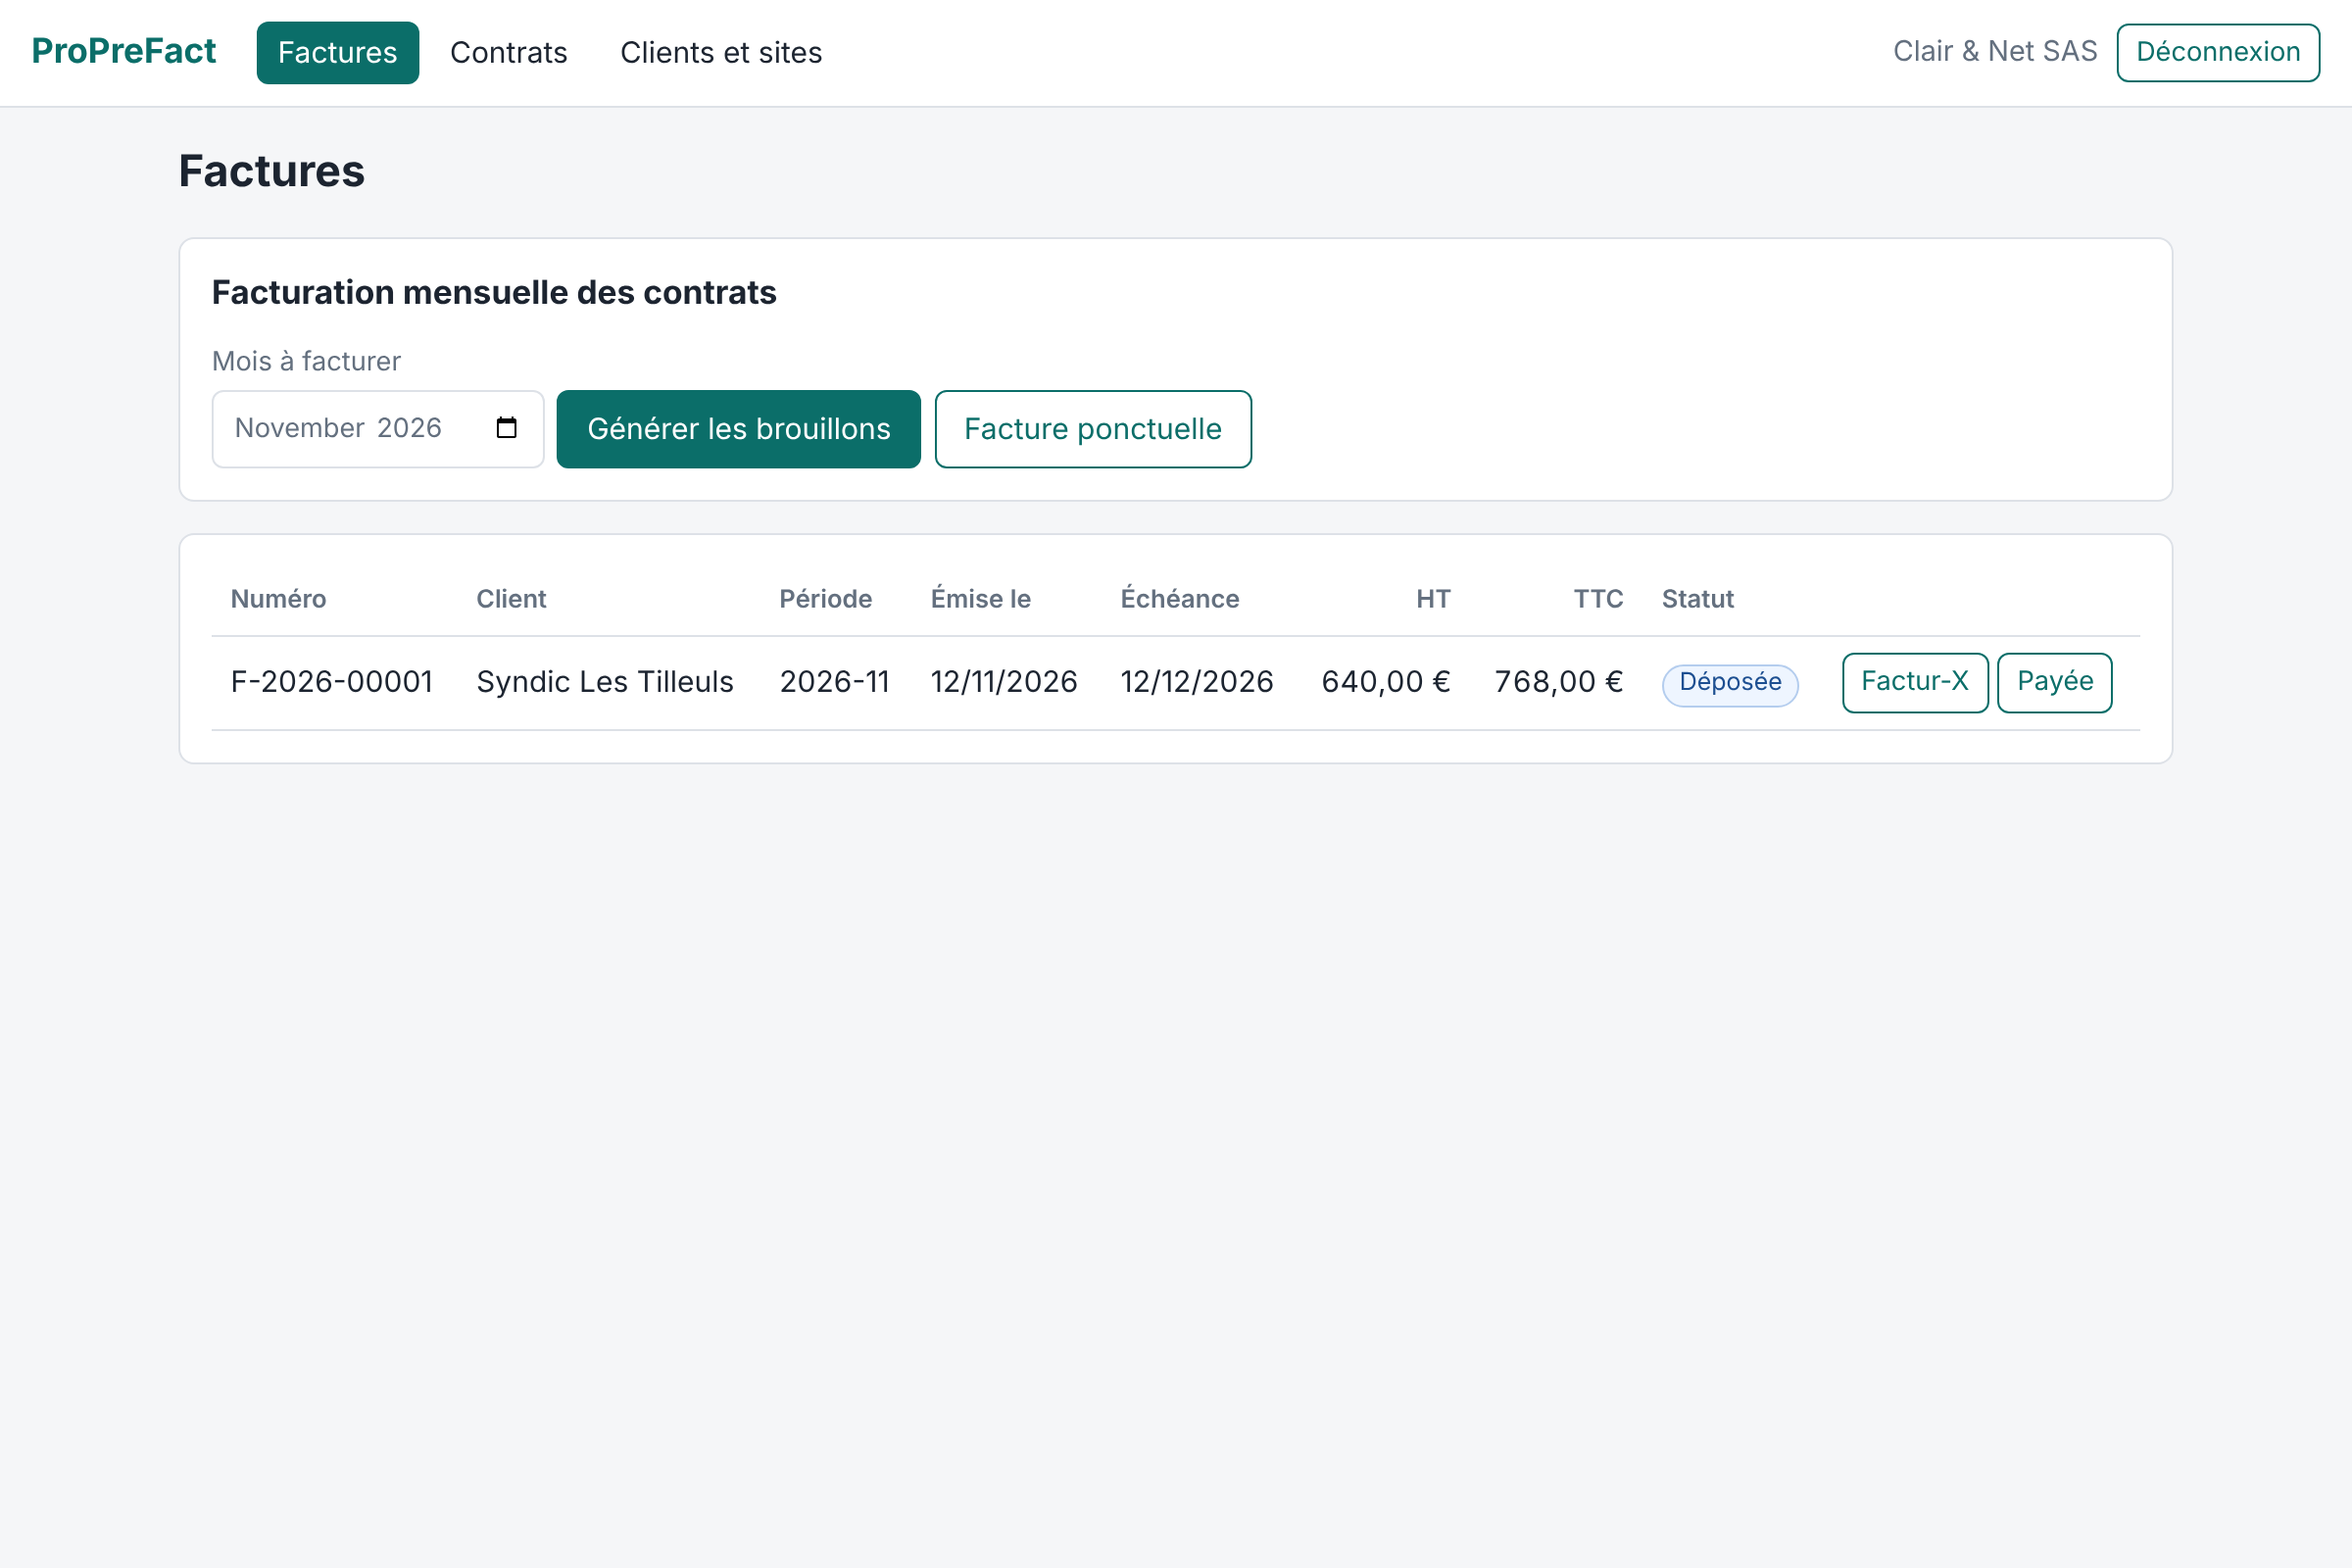
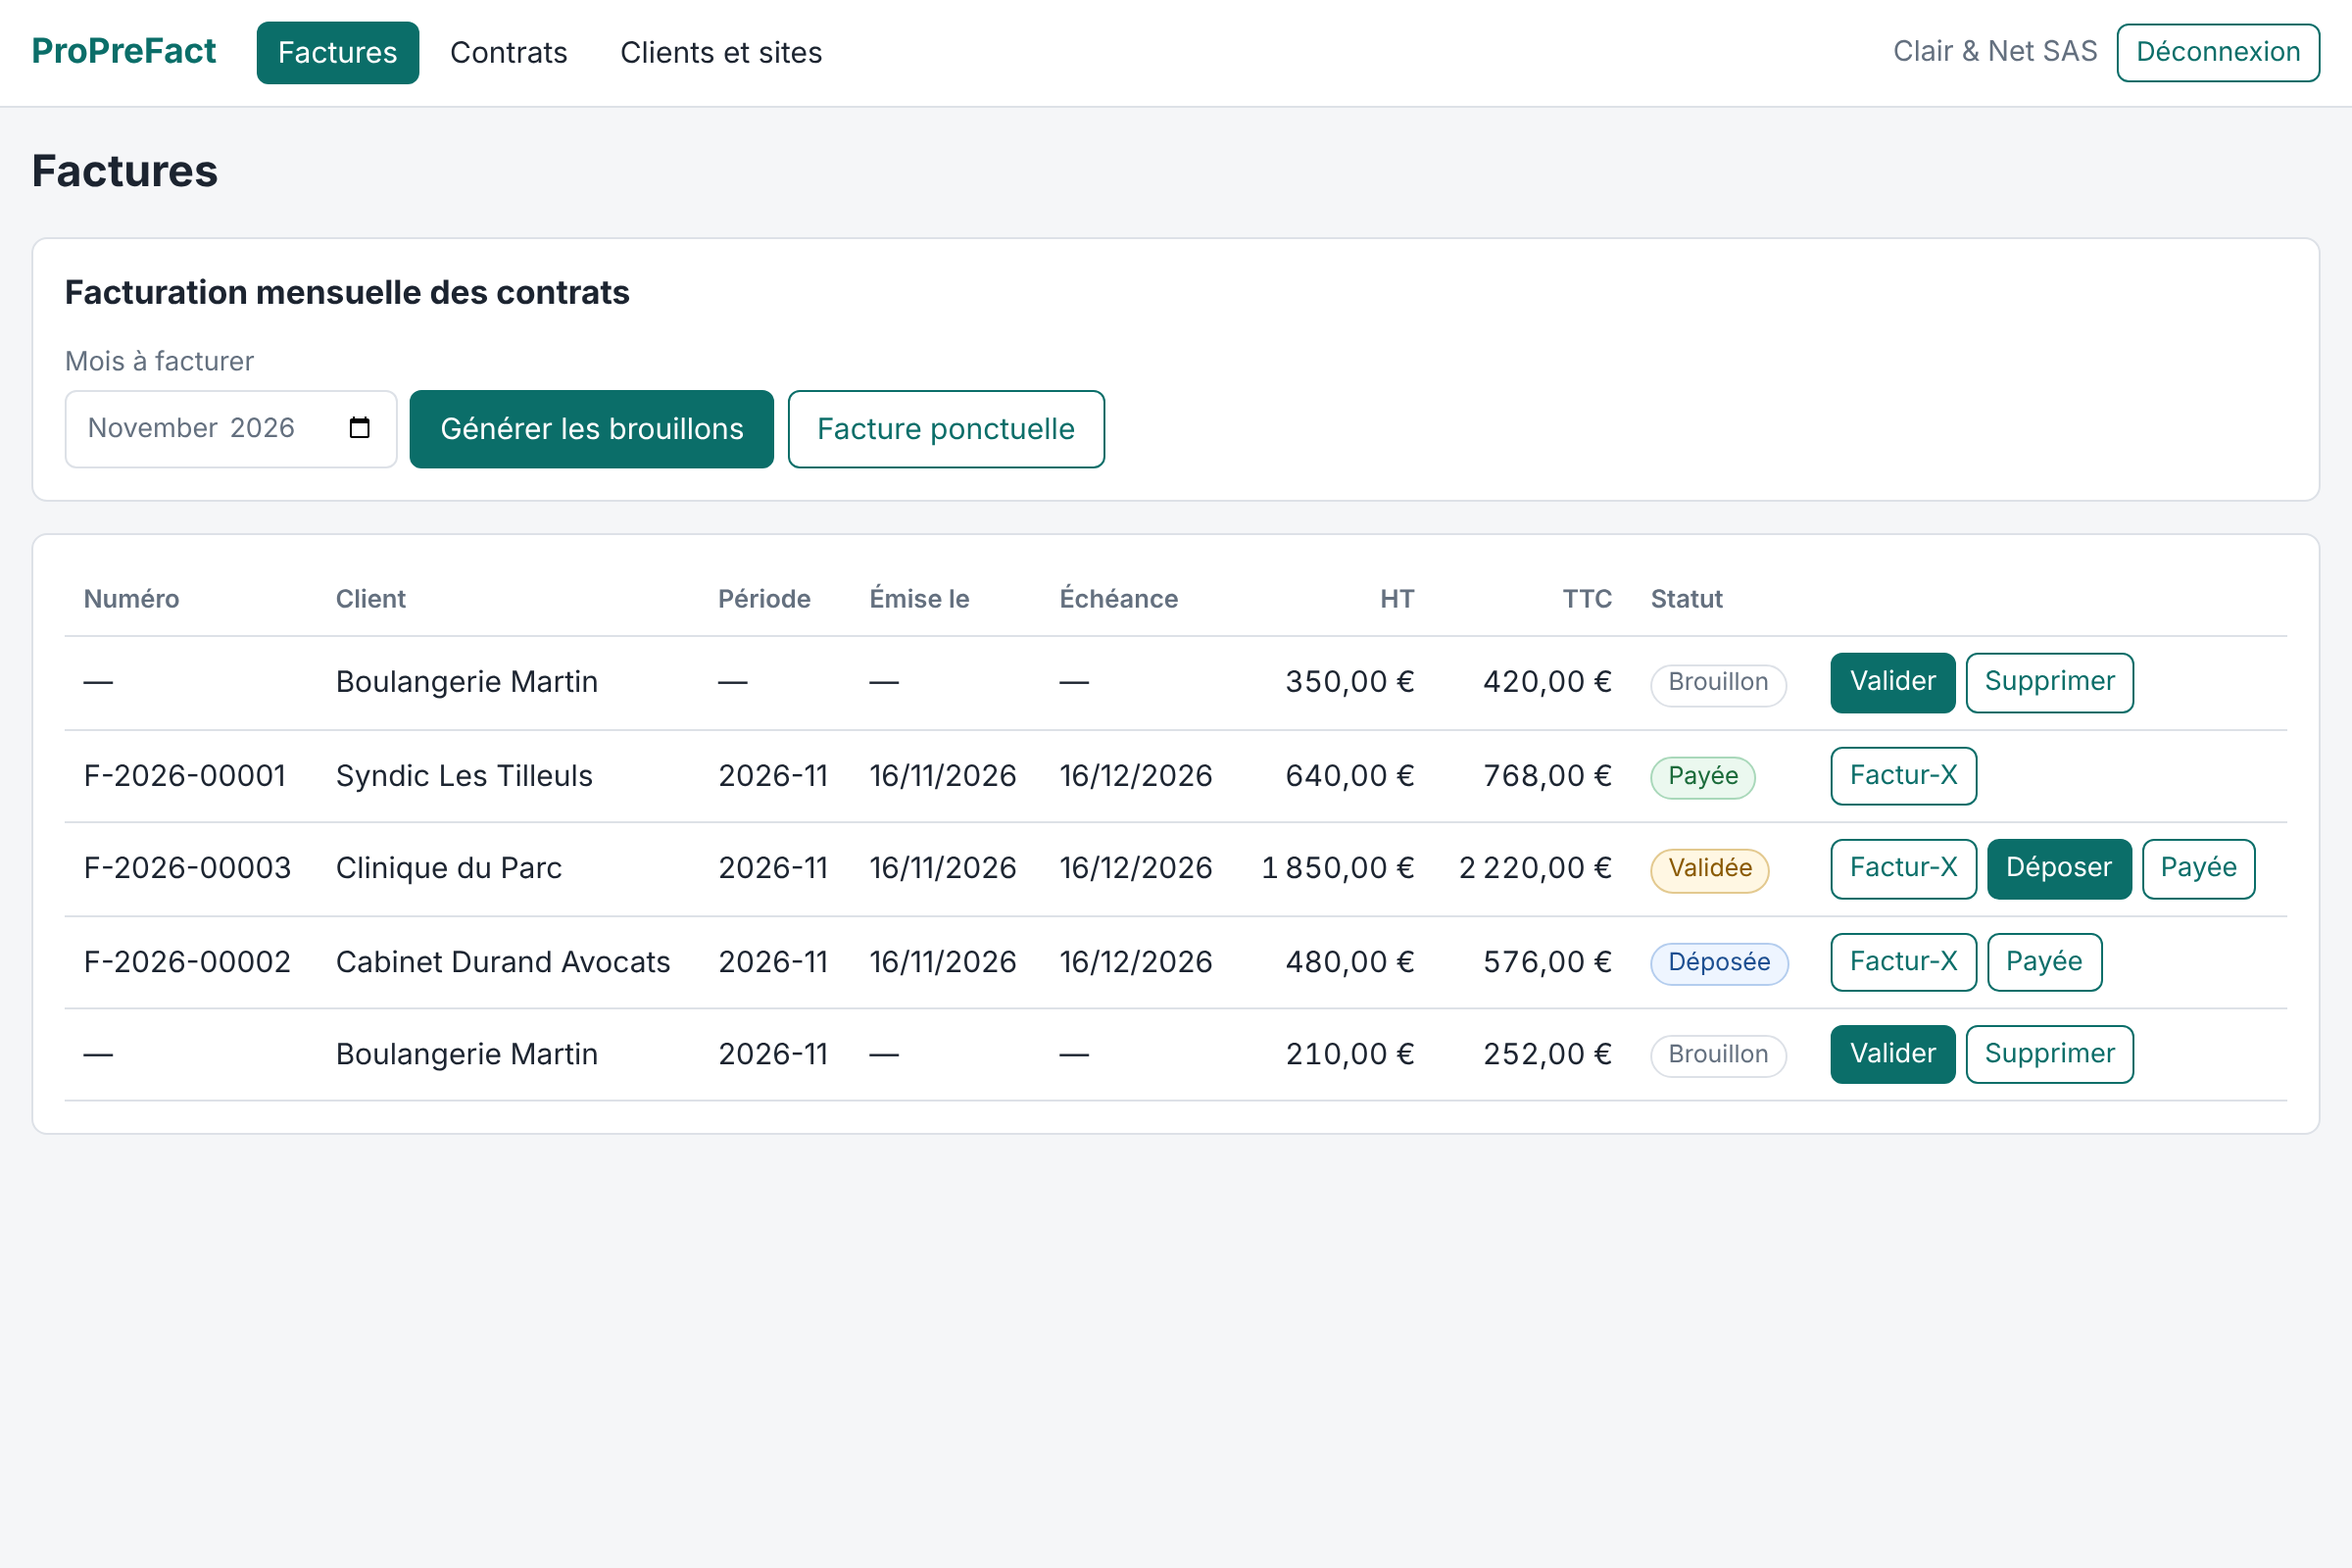
Refait la capture d'écran et garde visibles les boutons des factures
Sur un écran de 1200 points, les boutons d'action de la liste des factures
débordaient et n'étaient visibles qu'en faisant défiler le tableau. Ils
passent désormais à la ligne dans leur cellule. La capture du README montre
l'écran actuel avec une facture dans chaque statut.

Claude-Session: https://claude.ai/code/session_01BkiG84bwC7zDypddUp5ij7

diff --git a/frontend/src/app/pages/factures.html b/frontend/src/app/pages/factures.html
@@ -100,7 +100,7 @@
                 <div class="erreur petite">Dernier essai : {{ facture.depotErreur }}</div>
               }
             </td>
-            <td>
+            <td class="actions-ligne">
               <span class="groupe-boutons">
                 @if (facture.statut !== 'BROUILLON') {
                   <button

diff --git a/frontend/src/styles.css b/frontend/src/styles.css
@@ -193,7 +193,13 @@ a {
 }
 .groupe-boutons {
   display: flex;
+  flex-wrap: wrap;
   gap: 0.3rem;
+}
+/* Cellule des boutons d'une ligne : ils passent à la ligne plutôt que de faire défiler le tableau. */
+td.actions-ligne {
+  white-space: normal;
+  min-width: 9rem;
 }
 .erreur.petite {
   font-size: 0.78rem;

diff --git a/frontend/src/app/app.css b/frontend/src/app/app.css
@@ -37,7 +37,7 @@ nav a.actif {
   font-size: 0.9rem;
 }
 main {
-  max-width: 1050px;
+  max-width: 1200px;
   margin: 0 auto;
   padding: 1rem;
 }

diff --git a/AVANCEMENT.md b/AVANCEMENT.md
@@ -36,6 +36,7 @@ Ce fichier dit où en est l'application de `DIRECTIVES_CORRECTIONS.md`. Il est m
 | 17 | Hors directives : période typée `YearMonth` | Fait | voir journal |
 | 18 | Hors directives : conditions du vendeur regroupées | Fait | voir journal |
 | 19 | Hors directives : test d'intégration découpé par sujet | Fait | voir journal |
+| 20 | Hors directives : capture d'écran refaite, boutons d'action visibles | Fait | voir journal |
 
 États possibles : `À faire`, `En cours` (avec l'étape atteinte), `Fait`, `Bloqué : raison`.
 
@@ -57,10 +58,9 @@ Si tu obtiens moins bien **avant** de commencer un lot, ne commence pas : cherch
 
 ## Ce qui reste à faire
 
-Les 19 lots sont terminés. Ce qui suit n'a **pas** été fait ; chaque point
+Les 20 lots sont terminés. Ce qui suit n'a **pas** été fait ; chaque point
 est un travail à part, à décider avec le propriétaire du projet avant de le commencer.
 
-- **Capture d'écran du README.** `docs/ecran-factures.png` date d'avant la refonte des écrans.
 - **Déploiement.** Pas de Dockerfile ni de procédure de mise en production.
 - **Fonctions métier** listées dans le README, section « Reste à faire avant de vendre ».
 
@@ -208,6 +208,19 @@ est un travail à part, à décider avec le propriétaire du projet avant de le 
   suivante, enchaînée avec `;`, a supprimé le fichier d'origine : la vérification n'a alors compté
   que 27 tests au lieu de 38. Rien n'a été commité. Règle : enchaîne avec `&&` toute commande qui
   supprime quelque chose, et compare toujours le nombre de tests à celui du tableau ci-dessus.
+- **Lot 20, défaut d'affichage trouvé par la capture.** Sur un écran de 1200 points, la colonne des
+  actions de la liste des factures débordait : « Déposer », « Payée » et « Supprimer » n'étaient
+  visibles qu'en faisant défiler le tableau. Les boutons passent maintenant à la ligne dans leur
+  cellule (`td.actions-ligne`) et la page s'élargit à 1200 points. En dessous d'environ 1100
+  points (tablette, téléphone), le tableau défile toujours horizontalement : c'est voulu pour
+  l'instant, une vraie version mobile (cartes au lieu du tableau) reste à décider.
+- **Refaire la capture du README.** Lancer base, back-end et front comme pour le parcours manuel,
+  créer quatre clients avec un contrat chacun, générer novembre, mettre les factures dans des
+  statuts différents, puis capturer `/factures` à 1200 × 800 points, échelle 2. Le sélecteur de
+  mois s'affiche en anglais dans le Chromium de capture (langue du navigateur, pas de la page) :
+  ce n'est pas un défaut de l'application.
+- **Fusion dans `main`.** Ne fusionne dans `main` que sur demande explicite du propriétaire, pour
+  chaque lot ou groupe de lots : un accord donné une fois ne vaut pas pour les lots suivants.
 
 ## Journal
 
@@ -232,3 +245,4 @@ est un travail à part, à décider avec le propriétaire du projet avant de le 
 | 2026-11-16 | 17 | `periode` typée `YearMonth` avec `MoisConverter` ; plus aucun `YearMonth.parse` dans le code ; JSON inchangé et vérifié. |
 | 2026-11-16 | 18 | `ConditionsVendeur` regroupe IBAN, BIC et option pour les débits ; test du XML complété. |
 | 2026-11-16 | 19 | `ParcoursFacturationTest` découpé en `ComptesTest`, `FacturationTest`, `DepotTest`, `CloisonnementTest` sur une base `TestIntegration` ; même nombre de tests (38). |
+| 2026-11-16 | 20 | Capture `docs/ecran-factures.png` refaite (5 factures, tous les statuts) ; boutons d'action qui passent à la ligne au lieu de déborder ; page élargie à 1200 points. |
